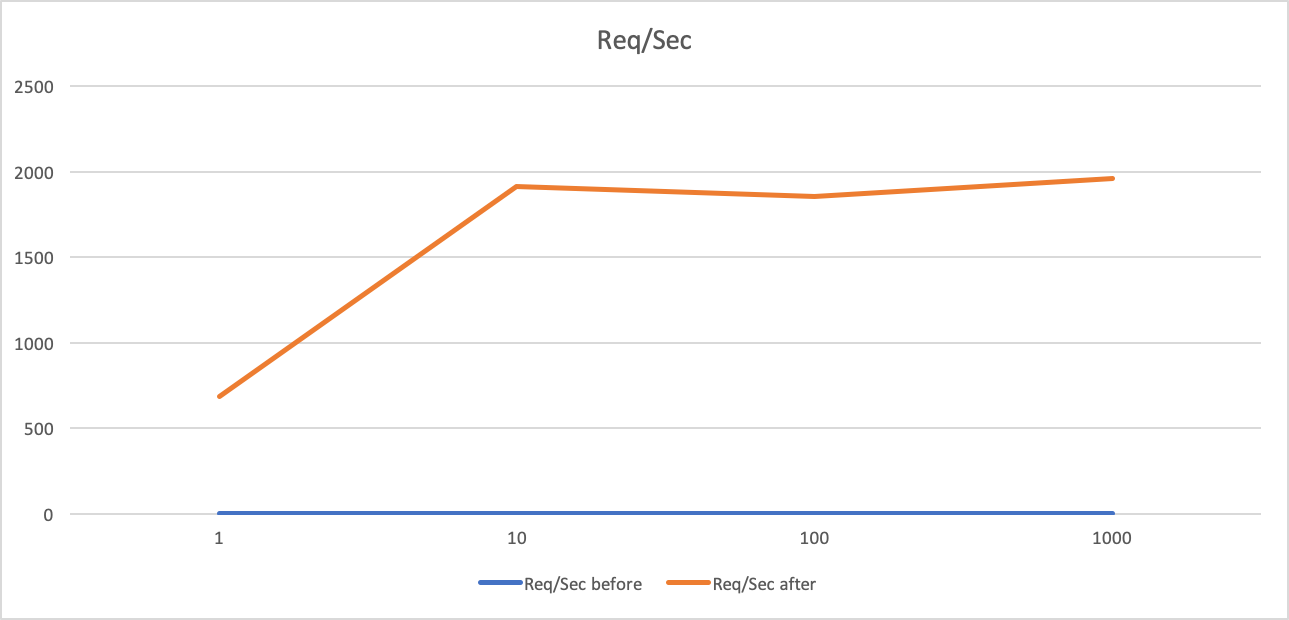
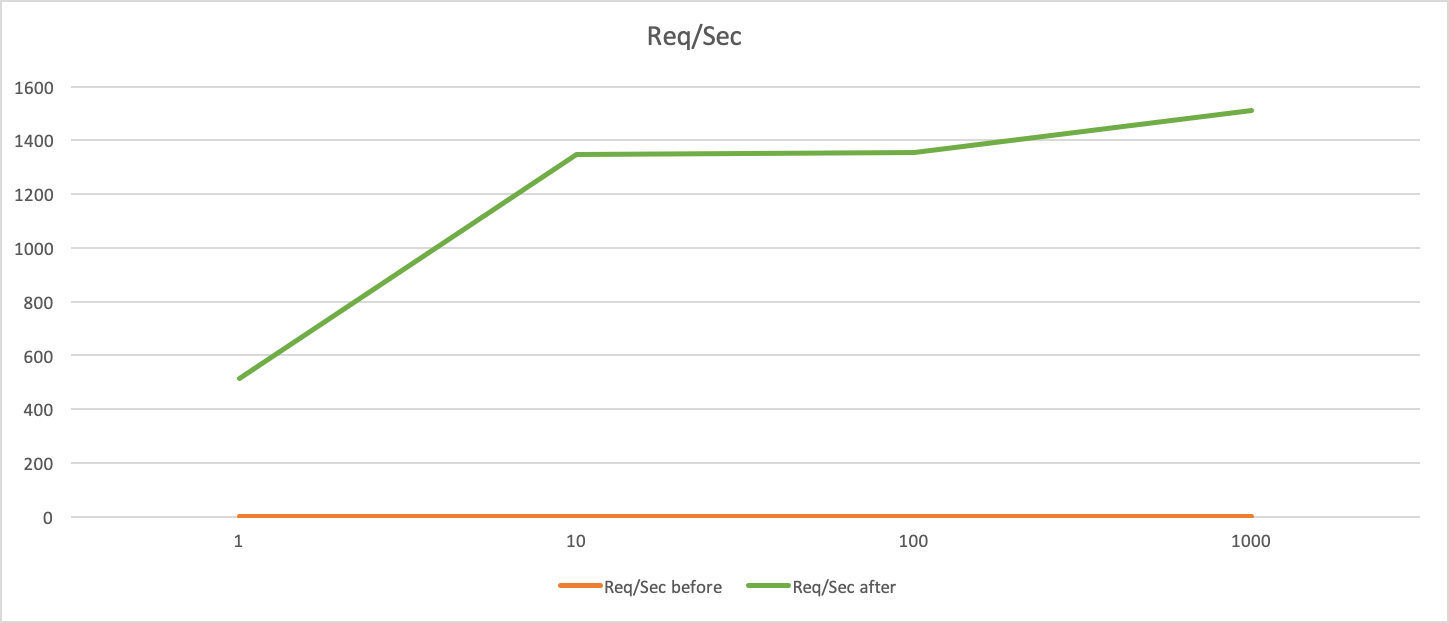
HW_02: new report done

diff --git a/social-network-back/src/main/java/ru/holuhoev/social_network/adapter/repository/UserRepositoryImpl.java b/social-network-back/src/main/java/ru/holuhoev/social_network/adapter/repository/UserRepositoryImpl.java
@@ -106,8 +106,8 @@ public class UserRepositoryImpl implements UserRepository {
                 "SELECT * " +
                 "FROM users " +
                 "WHERE TRUE " +
-                "     AND last_name LIKE :last_name " +
                 "     AND first_name LIKE :first_name " +
+                "     AND last_name LIKE :last_name " +
                 "ORDER BY user_id",
                 new MapSqlParameterSource()
                         .addValue("last_name", lastName + "%")

diff --git a/social-network-back/src/main/java/ru/holuhoev/social_network/application/config/SecurityConfiguration.java b/social-network-back/src/main/java/ru/holuhoev/social_network/application/config/SecurityConfiguration.java
@@ -46,7 +46,7 @@ public class SecurityConfiguration extends WebSecurityConfigurerAdapter {
                 SWAGGER_RESOURCES,
                 ACTUATOR,
                 CONFIG_PROPS,
-                "/users/search**"
+                "/api/users/search**"
         };
 
 

diff --git a/HW_02_report.md b/HW_02_report.md
@@ -59,59 +59,85 @@ Transfer/sec:     195.44B
 ## 4. Какой индекс нужен и почему
 - Логично сделать составной индекс по колонкам last_name и first_name, так как мы ищем сразу по ним двум ( ! по префиксу ). 
 - Для ускоренее работы индекса, первым в индексе должна идти та колонка, у которой селективность выше. 
-- Руководствуясь здравым смыслом и исходя из сгенеренных данных, примем что last_name более "уникально", чем first_name. Поэтому ее и поставим первым в индексе.
+- ~~Руководствуясь здравым смыслом и исходя из сгенеренных данных, примем что last_name более "уникально", чем first_name. Поэтому ее и поставим первым в индексе.~~
+- Для определения селективности, необходимо посчитать кол-во уникальный значений в наших колонках.
 
+#### last_name 
 ```mysql
-CREATE INDEX I_user_ON_last_name_first_name ON users(last_name, first_name);
+SELECT count(DISTINCT last_name) FROM users;
+-- 474
+```
+```mysql
+select last_name, count(1) as c FROM users GROUP BY last_name order by c desc;
+```
+![FirstName](./files/first_name.png)
+
+
+#### first_name
+```mysql
+SELECT count(DISTINCT first_name) FROM users;
+-- 5165
+```
+```mysql
+select first_name, count(1) as c FROM users GROUP BY first_name order by c desc;
+```
+![LastName](./files/first_name.png)
+
+1. last_name имеет 474 уникальных записей и в среднем на одно уникальное значение last_name приходится около 2000 записей
+2. first_name имеет 5165 уникальных записей и в среднем на одно уникальное значение first_name приходится около 500 записей
+  
+Исходя из этого, селективность first_name выше чем у last_name. Поэтому fist_name будет идти первым в индексе
+```mysql
+CREATE INDEX I_user_ON_first_name_last_name ON users(first_name, last_name);
 ```
 
 ## 5. Результаты НТ после индекса
 ```
-a17636999@CAB-WSM-0007463 bin % ./run_wrk_1
++ wrk -t1 -c1 -d30s -s /Users/a17636999/Projects/social-network/util/wrk/gen_and_search.lua --timeout 100s http://127.0.0.1:8080
 Running 30s test @ http://127.0.0.1:8080
   1 threads and 1 connections
   Thread Stats   Avg      Stdev     Max   +/- Stdev
-    Latency     1.82ms    6.07ms 150.67ms   99.47%
-    Req/Sec   690.89    103.83     0.88k    75.92%
-  20574 requests in 30.02s, 7.10MB read
-Requests/sec:    685.39
-Transfer/sec:    242.12KB
+    Latency     2.39ms    5.99ms 150.04ms   99.11%
+    Req/Sec   512.66    135.81   757.00     62.88%
+  15281 requests in 30.04s, 5.24MB read
+Requests/sec:    508.62
+Transfer/sec:    178.66KB
 
 
-a17636999@CAB-WSM-0007463 bin % ./run_wrk_10  
++ wrk -t6 -c10 -d30s -s /Users/a17636999/Projects/social-network/util/wrk/gen_and_search.lua --timeout 100s http://127.0.0.1:8080
 Running 30s test @ http://127.0.0.1:8080
   6 threads and 10 connections
   Thread Stats   Avg      Stdev     Max   +/- Stdev
-    Latency     3.26ms    2.94ms 114.04ms   94.16%
-    Req/Sec   320.54     49.13   500.00     68.50%
-  57493 requests in 30.03s, 19.64MB read
-Requests/sec:   1914.35
-Transfer/sec:    669.61KB
+    Latency     5.76ms    8.87ms 201.80ms   91.40%
+    Req/Sec   226.25     79.67   505.00     68.10%
+  40492 requests in 30.09s, 14.00MB read
+Requests/sec:   1345.75
+Transfer/sec:    476.40KB
 
-a17636999@CAB-WSM-0007463 bin % ./run_wrk_100 
++ wrk -t6 -c100 -d30s -s /Users/a17636999/Projects/social-network/util/wrk/gen_and_search.lua --timeout 100s http://127.0.0.1:8080
 Running 30s test @ http://127.0.0.1:8080
   6 threads and 100 connections
   Thread Stats   Avg      Stdev     Max   +/- Stdev
-    Latency    51.67ms   14.50ms 287.02ms   85.09%
-    Req/Sec   310.94     58.14   460.00     72.11%
-  55793 requests in 30.05s, 19.13MB read
-Requests/sec:   1856.48
-Transfer/sec:    651.83KB
+    Latency    71.27ms   25.99ms 359.89ms   80.96%
+    Req/Sec   226.71     60.31   420.00     65.89%
+  40733 requests in 30.09s, 14.10MB read
+Requests/sec:   1353.75
+Transfer/sec:    479.93KB
 
-a17636999@CAB-WSM-0007463 bin % ./run_wrk_1000
++ wrk -t6 -c1000 -d30s -s /Users/a17636999/Projects/social-network/util/wrk/gen_and_search.lua --timeout 100s http://127.0.0.1:8080
 Running 30s test @ http://127.0.0.1:8080
   6 threads and 1000 connections
   Thread Stats   Avg      Stdev     Max   +/- Stdev
-    Latency   398.21ms  141.55ms 760.77ms   76.79%
-    Req/Sec   329.26     55.10   494.00     71.18%
-  58927 requests in 30.10s, 20.55MB read
-  Socket errors: connect 0, read 1048, write 0, timeout 0
-Requests/sec:   1957.53
-Transfer/sec:    699.09KB
+    Latency   552.39ms  189.89ms   1.10s    69.27%
+    Req/Sec   253.74     61.52   460.00     65.83%
+  45434 requests in 30.05s, 15.31MB read
+  Socket errors: connect 0, read 1078, write 0, timeout 0
+Requests/sec:   1512.19
+Transfer/sec:    521.73KB
 
 ```
 
 ## 6. Графики
-![Latency](./files/hw2_lat.png)
+![Latency](./files/latency.png)
 
-![Req_Sec](./files/req_Sec.png)
+![Req_Sec](./files/req_sec.png)
